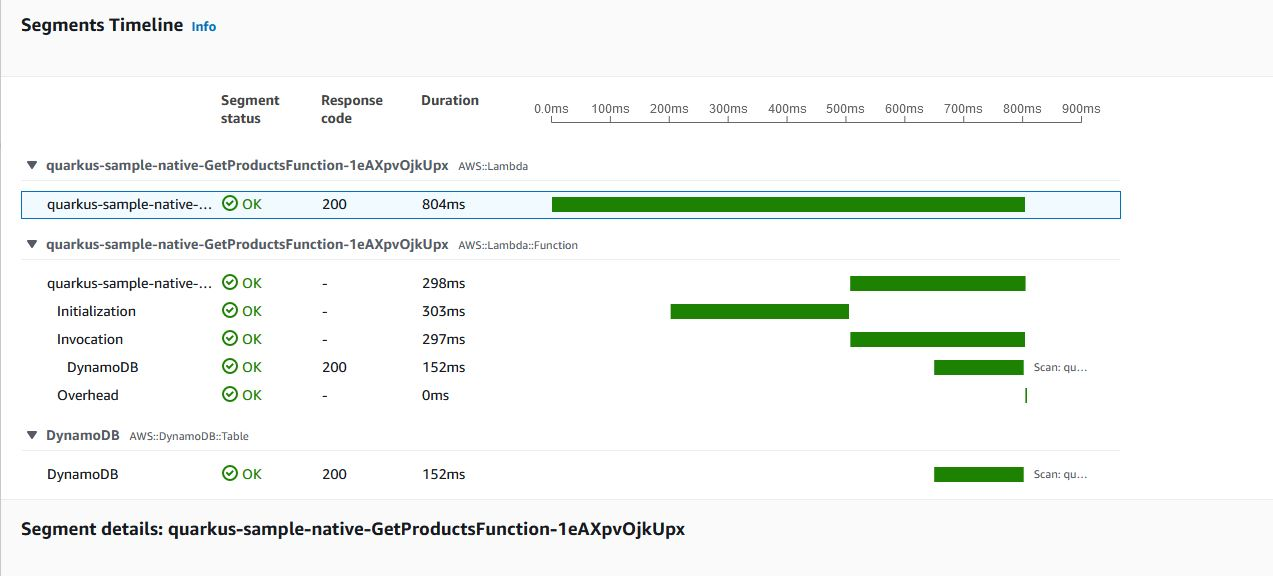
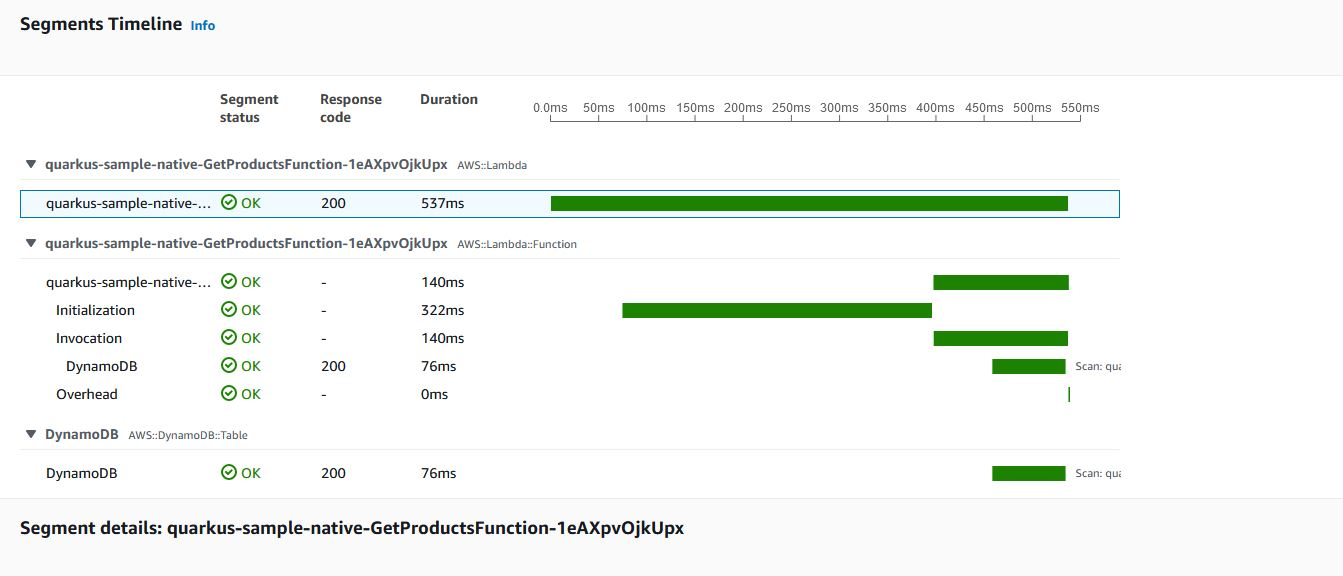
Reran the metrics with 1G memory

diff --git a/quarkus/src/main/java/software/amazonaws/example/product/product/dao/DynamoProductDao.java b/quarkus/src/main/java/software/amazonaws/example/product/product/dao/DynamoProductDao.java
@@ -25,7 +25,11 @@ import java.util.Optional;
 @ApplicationScoped
 public class DynamoProductDao implements ProductDao {
   private static final Logger logger = LoggerFactory.getLogger(DynamoProductDao.class);
-  private static final String PRODUCT_TABLE_NAME = System.getenv("PRODUCT_TABLE_NAME");
+
+  //This field is intentionally not static final. The native image version of the code
+  //does not work if this is set to static final
+  //TODO: Investigate and fix the issue with native image
+  private String PRODUCT_TABLE_NAME = System.getenv("PRODUCT_TABLE_NAME");
 
   private final DynamoDbClient dynamoDbClient = DynamoDbClient.builder()
     .credentialsProvider(EnvironmentVariableCredentialsProvider.create())

diff --git a/README.md b/README.md
@@ -65,36 +65,36 @@ All latencies listed below are in milliseconds.
         </tr>        
         <tr>
             <th>Micronaut</th>
-            <td>11162.78</td>
-            <td>11594.91</td>
-            <td>11935.91</td>
-            <td>12281.78</td>
-            <td>9.67</td>
-            <td>29.40</td>
-            <td>89.31</td>
-            <td>1012.22</td>
+            <td>8505.57</td>
+            <td>8977.26</td>
+            <td>9685.76</td>
+            <td>10512.48</td>
+            <td>9.38</td>
+            <td>14.86</td>
+            <td>40.39</td>
+            <td>553.75</td>
         </tr>
         <tr>
             <th>Quarkus</th>
-            <td style="color: lightgreen;">10799.03</td>
-            <td style="color: lightgreen;">11263.65</td>
-            <td style="color: lightgreen;">11629.73</td>
-            <td style="color: lightgreen;">11968.59</td>
-            <td>10.64</td>
-            <td>28.48</td>
-            <td>77.42</td>
-            <td>861.7</td>
+            <td>6384.45</td>
+            <td>6671.49</td>
+            <td>7.55.55</td>
+            <td>8303.17</td>
+            <td>10.41</td>
+            <td>19.07</td>
+            <td>48.45</td>
+            <td>317.69</td>
         </tr>
         <tr>
             <th>Spring Boot</th>
-            <td>25461.64</td>
-            <td>26184.27</td>
-            <td>26712.96</td>
-            <td>27021.46</td>
-            <td>13.08</td>
-            <td>46.58</td>
-            <td>207.15</td>
-            <td>824.41</td>
+            <td>12673.61</td>
+            <td>13098.60</td>
+            <td>13497.31</td>
+            <td>14118.06</td>
+            <td>10.99</td>
+            <td>21.75</td>
+            <td>75.00</td>
+            <td>419.9</td>
         </tr>
 </table>
     
@@ -119,36 +119,36 @@ All latencies listed below are in milliseconds.
         </tr>        
         <tr>
             <th>Micronaut</th>
-            <td>679.75</td>
-            <td>739.29</td>
-            <td>797.64</td>
-            <td>854.17</td>
-            <td>6.10</td>
-            <td>7.75</td>
-            <td>14.08</td>
-            <td>215.02</td>
+            <td>604.16</td>
+            <td>659.02</td>
+            <td>700.45</td>
+            <td>893.7</td>
+            <td>6.30</td>
+            <td>8.00</td>
+            <td>15.88</td>
+            <td>69.9</td>
         </tr>
         <tr>
             <th>Quarkus</th>
-            <td>562.74</td>
-            <td>607.76</td>
-            <td>637.63</td>
-            <td>860.5</td>
-            <td>7.15</td>
-            <td>12.01</td>
-            <td>18.47</td>
-            <td>245.18</td>
+            <td>437.45</td>
+            <td>475.76</td>
+            <td>519.50</td>
+            <td>528.03</td>
+            <td>7.45</td>
+            <td>12.60</td>
+            <td>21.32</td>
+            <td>93.45</td>
         </tr>
         <tr>
             <th>Spring Boot</th>
-            <td>728.29</td>
-            <td>789.70</td>
-            <td>815.37</td>
-            <td>835.99</td>
-            <td>9.20</td>
-            <td>14.16</td>
-            <td>24.27</td>
-            <td>304.35</td>
+            <td>620.66</td>
+            <td>684.53</td>
+            <td>721.77</td>
+            <td>751.98</td>
+            <td>9.10</td>
+            <td>14.22</td>
+            <td>23.61</td>
+            <td>259.16</td>
         </tr>
 </table>
 

diff --git a/micronaut/README.md b/micronaut/README.md
@@ -14,8 +14,28 @@ SAM will create an output of the API Gateway endpoint URL for future use in our 
 Make sure the app name used here matches with the `STACK_NAME` present under `load-test/run-load-test.sh`
 
 For deployment as GraalVM native image on custom runtime:
+
+On MacOS:
 ```bash
-mvn clean package -Dpackaging=docker-native -Pgraalvm
+docker run --mount type=bind,source=$(pwd),destination=/project -it --entrypoint /bin/bash marksailes/al2-graalvm:11-22.0.0.2
+```
+
+On Windows:
+```bash
+docker run -v <MICRONAUT_DIR_ABSOLUTE_PATH>:/project -it --entrypoint /bin/bash marksailes/al2-graalvm:11-22.0.0.2
+```
+Make sure to replace `MICRONAUT_DIR_ABSOLUTE_PATH` with absolute path to micronaut directory.
+ 
+Once docker downloads the image and runs, you would see a bash command that will run inside docker container.
+Run below command:
+
+```bash
+mvn clean package -Dpackaging=native-image -Pnative
+exit
+```
+
+Once above command completes, run:
+```bash
 sam deploy -t template.native.yaml -g
 ```
 SAM will create an output of the API Gateway endpoint URL for future use in our load tests. 

diff --git a/springboot/README.md b/springboot/README.md
@@ -22,8 +22,10 @@ docker run --mount type=bind,source=$(pwd),destination=/project -it --entrypoint
 
 On Windows:
 ```bash
-docker run -v ($pwd):/project -it --entrypoint /bin/bash marksailes/al2-graalvm:11-22.0.0.2
+docker run -v <SPRING_BOOT_DIR_ABSOLUTE_PATH>:/project -it --entrypoint /bin/bash marksailes/al2-graalvm:11-22.0.0.2
 ```
+Make sure to replace `SPRING_BOOT_DIR_ABSOLUTE_PATH` with absolute path to springboot directory.
+
 Once docker downloads the image and runs, you would see a bash command that will run inside docker container.
 Run below command:
 
